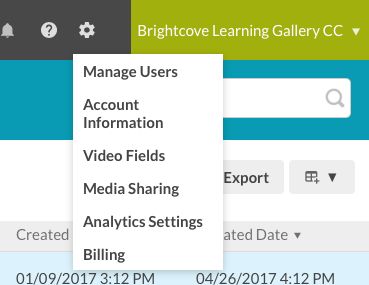
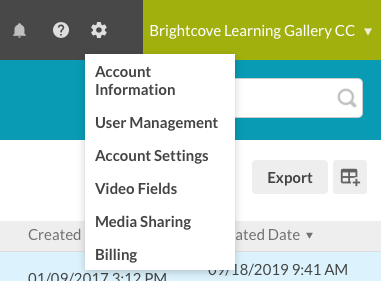
updated

diff --git a/admin/managing_account_settings.html b/admin/managing_account_settings.html
@@ -13,33 +13,34 @@
     <figure class="bcls-figure"> <img class="bcls-image--no-border" alt="" src="/corp-comm/images/admin/admin-menu.png" /></figure>
     <p>The account settings menu provides the following options:</p>
     <ul>
-      <li><a href="#users">Manage Users</a></li>
-      <li><a href="#account">Account Information</a></li>
+      <li><a href="#account_info">Account Information</a></li>
+      <li><a href="#users">User Management</a></li>
+      <li><a href="#account_settings">Account Settings</a></li>
       <li><a href="#fields">Video Fields</a></li>
       <li><a href="#sharing">Media Sharing</a></li>
-      <li><a href="#analytics">Analytics Settings</a></li>
       <li><a href="#billing">Billing</a></li>
     </ul>
   </section>
   <section class="bcls-section">
-    <h2 id="users">Manage Users</h2>
-    <p>The Manage Users option allows you to manage the users who are authorized to use the Corp Comm account. For more information on managing users, see <a href="managing-users.html">Managing Users</a>.</p>
-  </section>
-  <section class="bcls-section">
-    <h2 id="account">Account Information</h2>
+    <h2 id="account_info">Account Information</h2>
     <p>The Account Information option allows you to edit the account name and mailing address. For more information, see <a href="managing_account_information.html">Managing Account Information</a>.</p>
   </section>
   <section class="bcls-section">
-  <h2 id="account2">Video Fields</h2>
-<p>The Video Fields option allows you to mark standard video fields as required and also allows you to view, create, and modify custom metadata fields for your account. For more information on configuring video fields, see <a href="managing-video-fields.html">Manging Video Fields</a>.</p></section>
-    <section class="bcls-section">
+    <h2 id="users">User Management</h2>
+    <p>The User Management option allows you to manage the users who are authorized to use the Corp Comm account. For more information on managing users, see <a href="managing-users.html">Managing Users</a>.</p>
+  </section>
+  <section class="bcls-section">
+    <h2 id="account_settings">Account Settings</h2>
+    <p>The Account Settings allow you to set the default reporting time zone for the account. The reporting time zone is used to calculate day boundaries for reporting data. Changing the reporting time zone setting only affects data going forward, and changes are not applied retroactively. If you change this setting, you may see a flat spot or a spike in your analytics data when looking at day boundaries where the change was applied. Updates to this setting may not take effect immediately and analytics data may continue to refer to the old setting until the system processes the changes.</p>
+    <figure class="bcls-figure"><img class="bcls-image--no-border" alt="" src="/corp-comm/images/admin/account-settings.png" /></figure>
+  </section>
+  <section class="bcls-section">
+    <h2 id="account2">Video Fields</h2>
+    <p>The Video Fields option allows you to mark standard video fields as required and also allows you to view, create, and modify custom metadata fields for your account. For more information on configuring video fields, see <a href="managing-video-fields.html">Manging Video Fields</a>.</p>
+  </section>
+  <section class="bcls-section">
     <h2 id="account3">Media Sharing</h2>
-<p>The Media Sharing option allows you to upload videos once and then share the videos to other Video Cloud accounts. For more information on media sharing, see <a href="managing-media-sharing-settings.html">Managing Media Sharing Settings</a>.</p>
-    </section>  
-        <section class="bcls-section">
-    <h2 id="analytics">Analytics Settings</h2>
-    <p>The Analytics Settings allow you to set the default reporting time zone for the account. The reporting time zone is used to calculate day boundaries for reporting data. Changing the reporting time zone setting only affects data going forward, and changes are not applied retroactively. If you change this setting, you may see a flat spot or a spike in your analytics data when looking at day boundaries where the change was applied. Updates to this setting may not take effect immediately and analytics data may continue to refer to the old setting until the system processes the changes.</p>
-    <figure class="bcls-figure"><img class="bcls-image--no-border" alt="" src="/corp-comm/images/admin/analytics-settings.png" /></figure>
+    <p>The Media Sharing option allows you to upload videos once and then share the videos to other Video Cloud accounts. For more information on media sharing, see <a href="managing-media-sharing-settings.html">Managing Media Sharing Settings</a>.</p>
   </section>
   <section class="bcls-section">
     <h2 id="billing">Billing</h2>

diff --git a/admin/managing-users.html b/admin/managing-users.html
@@ -8,13 +8,13 @@
 <article class="bcls-article">
   <h1>Managing Users</h1>
   <section class="bcls-section">
-    <p>The Manage Users page manages the users who are authorized to access the account. Note that to access the Manage Users page, you must be a user with the Administrator role.</p>
-    <p>To access the Users page:</p>
+    <p>The User Management page manages the users who are authorized to access the account. Note that to access the User Management page, you must be a user with the Administrator role.</p>
+    <p>To access the User Management page:</p>
     <ol class="bcls-tasklist">
       <li>Login to the Corporate Comm application.</li>
-      <li>In the navigation header, click the gear icon (<img class="bcls-image--no-border" alt="" src="/corp-comm/images/admin/gear-icon.png" />) and then <strong>Manage Users</strong>.</li>
+      <li>In the navigation header, click the gear icon (<img class="bcls-image--no-border" alt="" src="/corp-comm/images/admin/gear-icon.png" />) and then <strong> User Management</strong>.</li>
     </ol>
-    <p>The Manage Users page will display:</p>
+    <p>The  User Management page will display:</p>
     <ul>
       <li>Last Name, First Name</li>
       <li>Email address</li>
